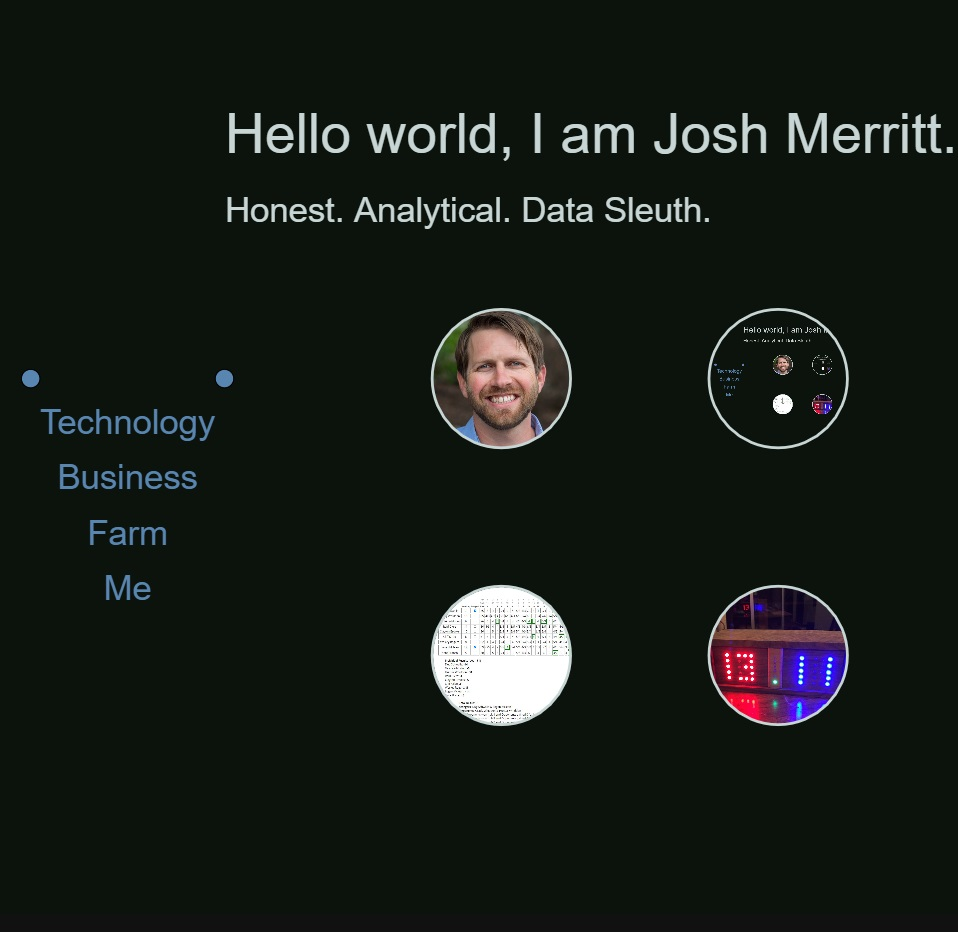
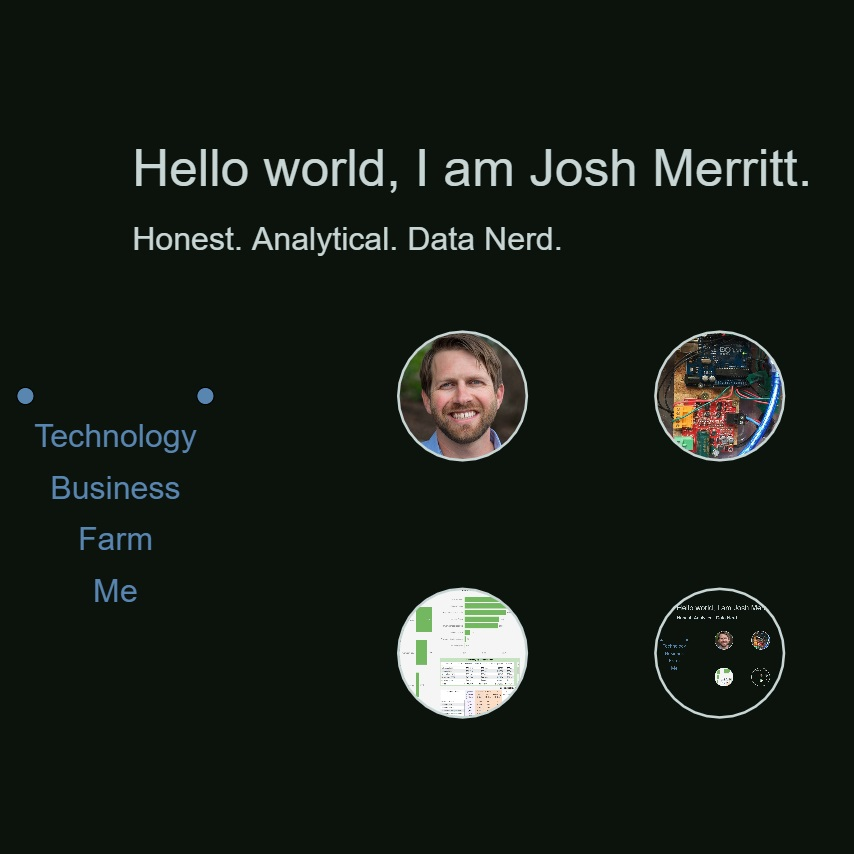
Image updates and cleanup

diff --git a/sketch.js b/sketch.js
@@ -180,8 +180,8 @@ function helpMessage() {
   function captureWebsite() {
     let minDim = Math.min(playfieldWidth, playfieldHeight);
     let thisWebsite = get(0, 0, minDim, minDim);
-    imageBalls[1].ballImage = thisWebsite;
-    imageBalls[1].fullImage = thisWebsite;
+    imageBalls[4].ballImage = thisWebsite;
+    imageBalls[4].fullImage = thisWebsite;
   }
 
 
